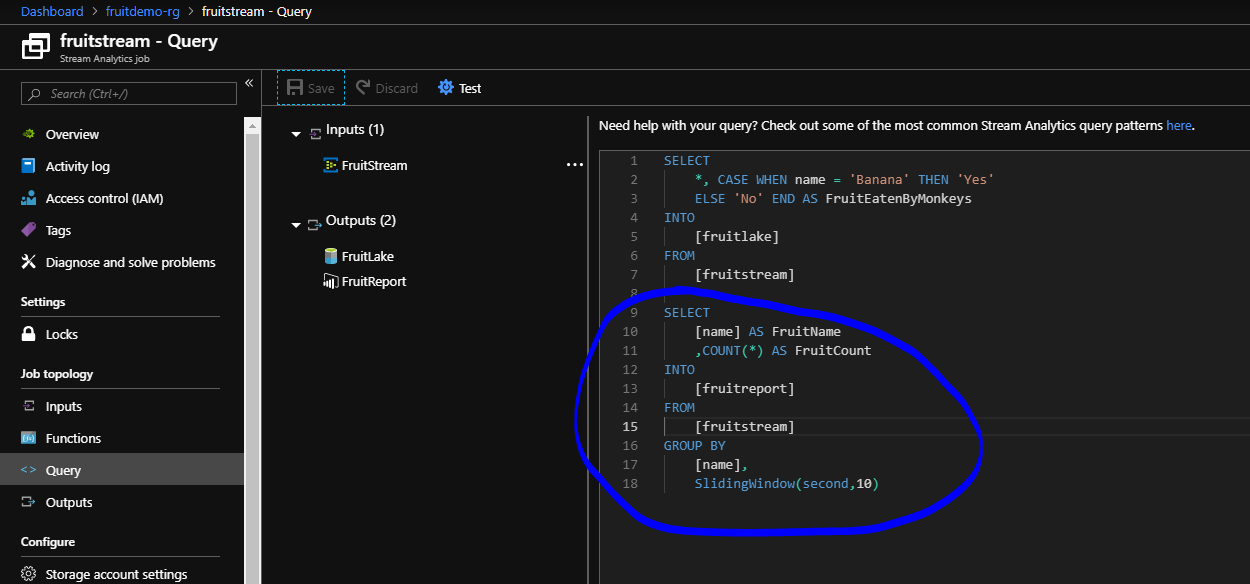
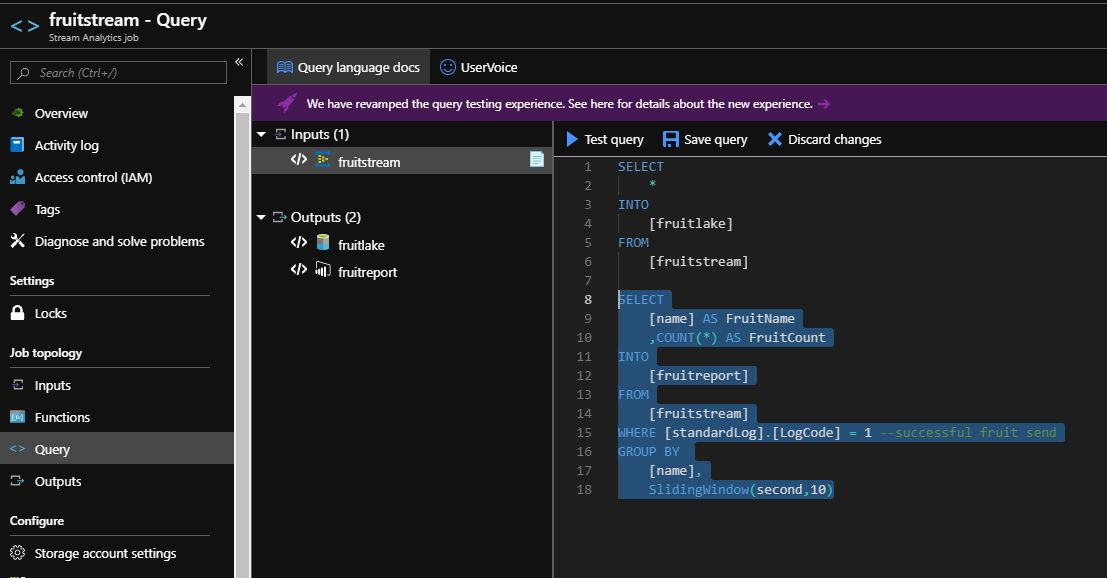
case statement and power bi working in documentation

Changed region(s): [[0.0, 0.0, 1.0, 1.0]]

diff --git a/Griffless/Instructions/08_CreateStreamToPowerBI/CreateStreamToPowerBI.md b/Griffless/Instructions/08_CreateStreamToPowerBI/CreateStreamToPowerBI.md
@@ -20,64 +20,67 @@ SELECT
 INTO
     [fruitreport]
 FROM
-    [fruit]
+    [fruitstream]
+WHERE [standardLog].[LogCode] = 1 --successful fruit send
 GROUP BY 
     [name],
     SlidingWindow(second,10)
 ```
 ![Fruit Stream Query Report](Images/FruitStreamQueryReport.PNG)
 
-5. Start your stream analytics job.
+5. If you don't have it running, start your FruitConsole app.
+
+6. Start your stream analytics job.
 ![Fruit Stream Start](Images/FruitStreamStart.PNG)
 
 
-6. Go to your [Power BI Account](https://app.powerbi.com/home).
+7. Go to your [Power BI Account](https://app.powerbi.com/home).
 
 ![Power BI Home](Images/PowerBIHome.PNG)
 
-7. Go to your workspace. 
+8. Go to your workspace. 
 
-8. Go to datasets and (eventually) you will see a "Fruit" dataset.
+9. Go to datasets and (eventually) you will see a "Fruit" dataset.
 
 ![PowerBI Fruit Dataset](Images/PowerBIFruitDataset.PNG)
 
-9. Create a new dashboard.
+10. Create a new dashboard.
 
 ![PowerBI Dashboard Create](Images/PowerBIDashboardCreate.PNG)
 
 ![PowerBI Dashboard Create Name](Images/PowerBIDashboardCreateName.PNG)
 
-10. Add a real time tile to your dashboard.
+11. Add a real time tile to your dashboard.
 
 ![PowerBI Add Tile Real Time Data](Images/PowerBIAddTileRealTimeData.PNG)
 
-11. Select your fruit dataset. 
+12. Select your fruit dataset. 
 
 ![PowerBI Fruit Dataset Select](Images/PowerBIFruitDatasetSelect.PNG)
 
 
-12. Enter the details of the fields to use in your tile as below. Use a card visualisation and use FruitCount as your field. 
+13. Enter the details of the fields to use in your tile as below. Use a card visualisation and use FruitCount as your field. 
 
 ![PowerBI Card Fields](Images/PowerBICardFields.PNG)
 
-13. Set your title to be "Total Fruit Count Last 10 Seconds" and click apply.
+14. Set your title to be "Total Fruit Count Last 10 Seconds" and click apply.
 
 ![PowerBI Card Title](Images/PowerBICardTitle.PNG)
 
-14. Expand your tile so that the title fits.
+15. Expand your tile so that the title fits.
 
 ![PowerBI Tile Expand](Images/PowerBITileExpand.PNG)
 
-15. Add another tile using your fruit streaming dataset.
+16. Add another tile using your fruit streaming dataset.
 
-16. Choose clustered bar chart as your visualsation, use fruitname as your axis and fruitcount as your value.
+17. Choose clustered bar chart as your visualsation, use fruitname as your axis and fruitcount as your value.
 
 ![PowerBI Bar Chart](Images/PowerBIBarChart.PNG)
 
-17. Set your title to be "Fruit Count Last 10 Seconds" and click apply.
+18. Set your title to be "Fruit Count Last 10 Seconds" and click apply.
 
 ![PowerBI Bar Chart Title](Images/PowerBIBarChartTitle.PNG)
 
-18. You should end up with a moving real time dashboard as below.
+19. You should end up with a moving real time dashboard as below.
 
 ![PowerBI Dashboard](Images/PowerBIDashboard.PNG)

diff --git a/Griffless/Instructions/07_StreamQueryCaseStatement/StreamQueryCaseStatement.md b/Griffless/Instructions/07_StreamQueryCaseStatement/StreamQueryCaseStatement.md
@@ -16,7 +16,7 @@ To demonstrate how easy it is to use stream analytics and its SQL-like language,
 ```sql
 SELECT
     *, CASE WHEN name = 'Banana' THEN 'Yes'
-    ELSE 'No' END AS FruitEatenByMonkeys
+    ELSE 'No' END AS [FruitEatenByMonkeys]
 INTO
     [fruitlake]
 FROM
@@ -44,7 +44,7 @@ FROM
 ```sql
 SELECT
     *, CASE WHEN name = 'Banana' THEN 'Yes'
-    ELSE 'No' END AS FruitEatenByMonkeys
+    ELSE 'No' END AS [FruitEatenByMonkeys]
 INTO
     [fruitlake]
 FROM
